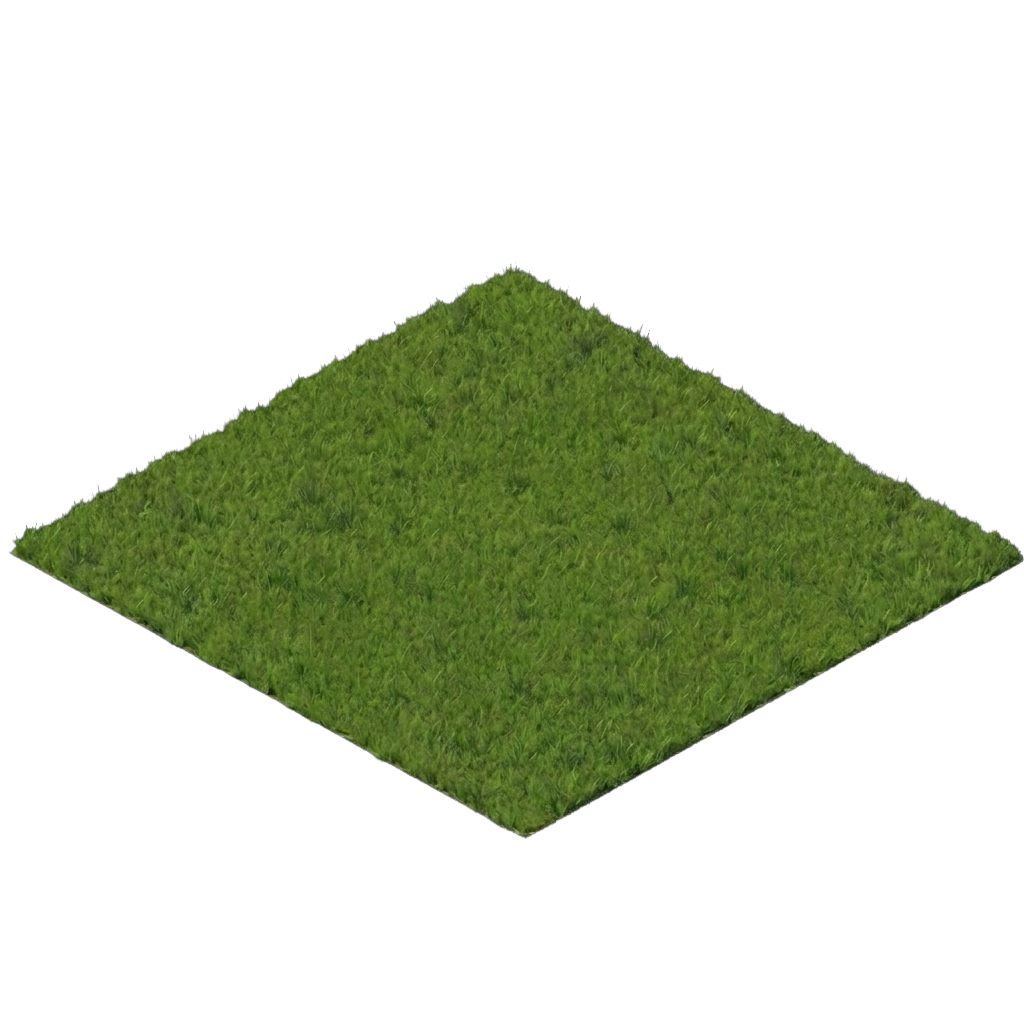
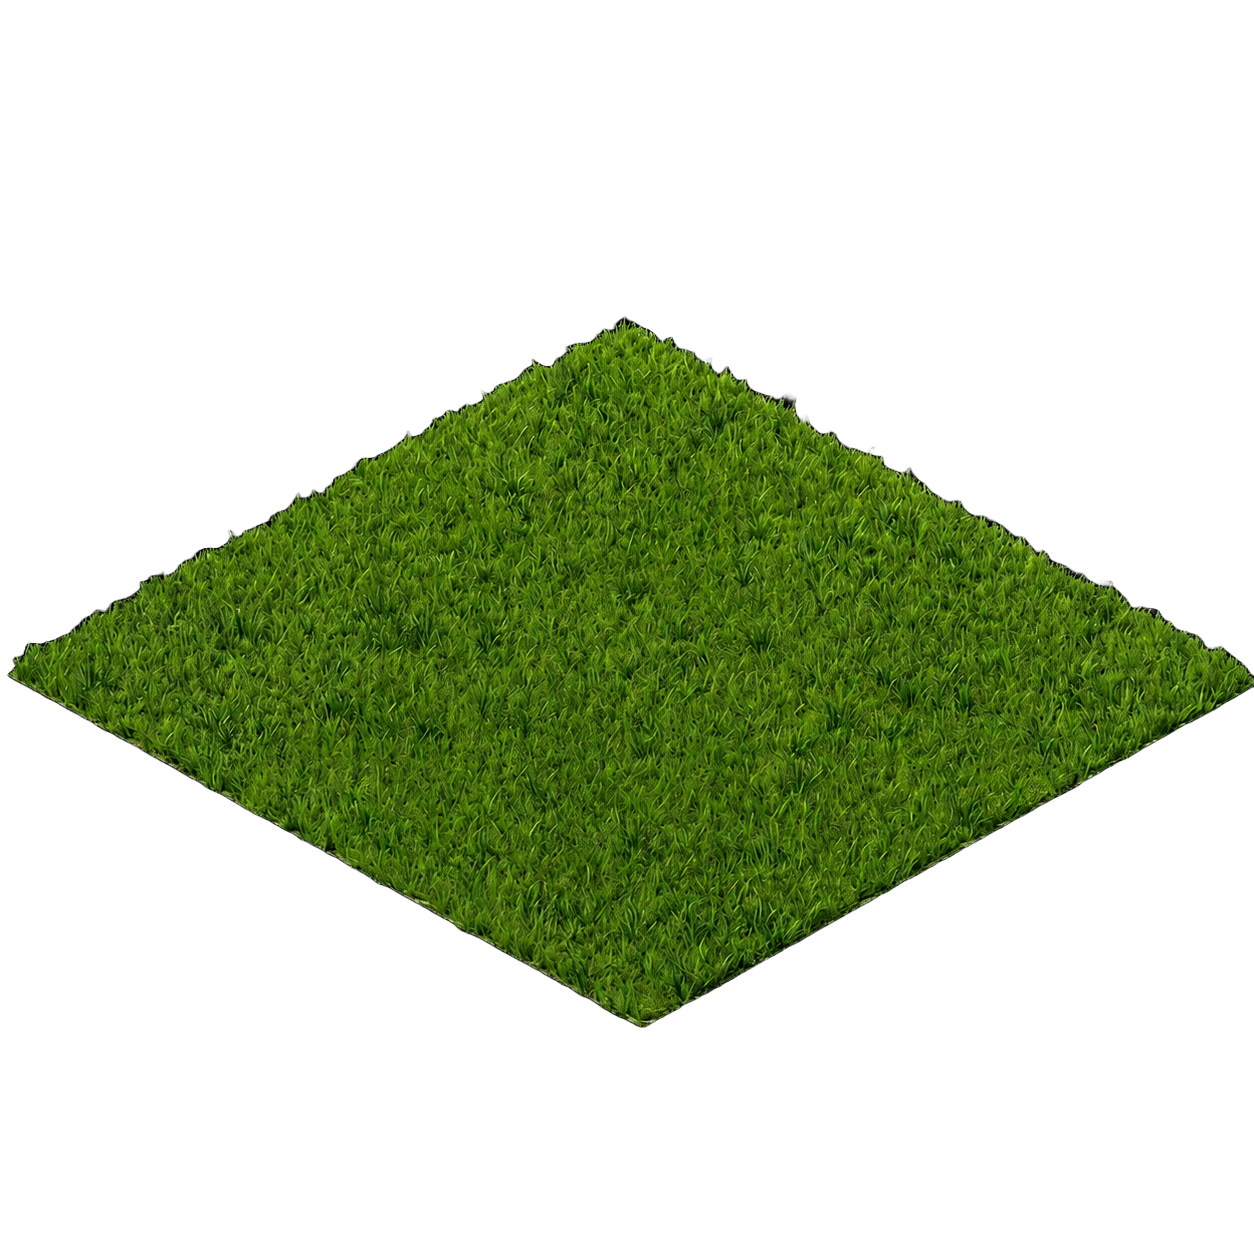
chore: optimized some images

Changed region(s): [[0.0, 0.25, 1.0, 0.8438]]

diff --git a/public/park.html b/public/park.html
@@ -15,7 +15,6 @@
     <link rel="stylesheet" href="./styles/buildings/hatchery.css">
     <link rel="stylesheet" href="./styles/buildings/entrance.css">
     <link rel="stylesheet" href="./styles/buildings/enclosure.css">
-    <link rel="stylesheet" href="./styles/buildings/structures.css">
     
     <!-- === Importação de funções === -->
     <script src="./constants.js"></script>
@@ -74,12 +73,12 @@
         </div>
         <nav class="sidebar-body">
             <button id="general-panel-toggler" class="sidebar-item">
-                <i class="ph-fill ph-cards"></i>
+                <i class="ph-fill ph-binoculars"></i>
                 <p>Visão Geral</p>
             </button>
-            <button id="buildings-panel-toggler" class="sidebar-item">
-                <i class="ph-fill ph-blueprint"></i>
-                <p>Construções</p>
+            <button id="editor-mode-toggler" class="sidebar-item">
+                <i class="ph-fill ph-hammer"></i>
+                <p>Modo Editor</p>
             </button>
             <button id="autosave-btn" class="sidebar-item">
                 <i class="ph-fill ph-floppy-disk"></i>
@@ -119,15 +118,6 @@
             </ul>
         </div>
     </div>
-    <!-- Painel Construções (abre com clique em "Construções") -->
-    <div class="overlay closed">
-        <div id="buildings-panel" class="panel">
-            <h3 class="panel-title">Construcoes Disponiveis</h3>
-            <ul class="buildings-list">
-                <!-- lista de construções disponíveis... -->
-            </ul>
-        </div>
-    </div>
     <!-- Painel Nome Parque (abre com clique na construção "Entrance") -->
     <div class="overlay closed">
         <div id="entrance-panel" class="panel">
@@ -143,9 +133,9 @@
     <div class="overlay closed">
         <div id="hatchery-panel" class="panel">
             <h3 class="panel-title">Laboratorio de Incubacao</h3>
-            <ul id="hatchery-slots">
-                <li id="hatch-slot-1" class="hatchery-slot"></li>
-            </ul>
+            <div id="hatchery-slots">
+                <!-- lista de slots para incubar... -->
+            </div>
             <ul id="hatchery-list">
                 <!-- lista de dinossauros disponíveis... -->
             </ul>
@@ -153,12 +143,10 @@
     </div>
 
     <!-- Tile Switcher (abre com clique em qualquer tile) -->
-    <div class="overlay closed">
-        <div id="tile-switcher">
-            <ul class="tile-list">
-                <!-- lista com demais tiles para trocar -->
-            </ul>
-        </div>
+    <div id="tile-switcher" class="closed">
+        <ul class="tile-list">
+            <!-- lista com demais tiles para trocar -->
+        </ul>
     </div>
 
     <!-- Painel Cercado (abre com clique em qualquer tile da categoria "Enclosure") -->
@@ -191,11 +179,7 @@
         const clickedElement = e.target;
         if(clickedElement.classList.contains("visitor-center")) { togglePanel("general-panel") };
         if(clickedElement.classList.contains("entrance")) { togglePanel("entrance-panel") };
-        if(clickedElement.classList.contains("hatchery")) { 
-            togglePanel("hatchery-panel");
-            loadHatcheryData();
-        };
-
+        if(clickedElement.classList.contains("hatchery")) { togglePanel("hatchery-panel")};
         if(clickedElement.classList.contains("enclosure")) { 
             togglePanel("enclosure-panel");
             loadEnclosureData(e.target.dataset.tileCol, e.target.dataset.tileRow, "enclosure-panel");
@@ -206,7 +190,7 @@
     document.addEventListener("DOMContentLoaded", () => {
         // === REDIRECIONAMENTO SE NÃO AUTENTICADO === //
         if(!getItem(JPWG_DATA)) {
-           window.location = "./login.html";
+        window.location = "./login.html";
         }
 
         // === ELEMENTOS E EVENTOS HTML === //
@@ -254,7 +238,7 @@
         // Togglers
         const sidebarToggler = getElementByIdAndAttachEvent("sidebar-toggler", 'click', () => togglePanel("sidebar", false));
         const generalPanelToggler = getElementByIdAndAttachEvent("general-panel-toggler", 'click', () => togglePanel("general-panel"));
-        const buildingsPanelToggler = getElementByIdAndAttachEvent("buildings-panel-toggler", 'click', () => togglePanel("buildings-panel"));
+        const editorModeToggler = getElementByIdAndAttachEvent("editor-mode-toggler", 'click', () => togglePanel("tile-switcher", false));
 
         // Sidebar
         const autosaveBtn = getElementByIdAndAttachEvent("autosave-btn", "click", () => {
@@ -293,6 +277,7 @@
         loadDevScreen({user, park, tiles, dinosaur});
         loadStatusBar(park.name, park.rating, park.dinoCoins);
         loadGrid(tiles, dinosaur);
+        loadHatcheryData();
 
         // 3. INICIA TIMERS
         const autosaveTimer = createTimer(() => triggerEvent("save"), AUTOSAVE_INTERVAL_MS);
@@ -450,7 +435,7 @@
                 </div>
                 <div class="enclosure-status-body">
                     <div class="empty-enclosure">
-                        <p>Não Há Dinossauros Neste Cercado</p>
+                        <p>Cercado Vazio</p>
                         <button onclick="openHatchery()">Ir para a Incubadora</button>  
                     </div>
                 </div>
@@ -496,7 +481,7 @@
                     </div>
                     <div class="enclosure-info">
                         <ul>
-                           <li>Era: <span>${species.temporalRange}</span></li>
+                        <li>Era: <span>${species.temporalRange}</span></li>
                             <li>Locomoção: <span>${species.locomotionType}</span></li>
                             <li>Dieta: <span>${species.diet}</span></li>
                             <li>Altura: <span>${formatDinoHeight(Number(species.heightInMeters))}</span></li>
@@ -591,28 +576,39 @@
         hatcherySlots.innerHTML = "";
         hatcheryList.innerHTML = "";
 
-        const data = JSON.parse(getItem("JPWG_SPECIES"));
-        if(!data) {}
+        const species = JSON.parse(getItem("JPWG_SPECIES"));
+        const {park} = JSON.parse(getItem(JPWG_DATA));
+        if(!species) {
+            // aviso: buscar por species novamente
+        }
 
-        data.forEach((species) => {
+        species.forEach((species) => {
             hatcheryList.innerHTML += `
                 <li class="hatchery-item" style="background-image: url('./assets/images/dinosaurs/${species.name}_icon.png');">
                     <p class="hatchery-title">${species.name}</p>
                     <div class="hatchery-item-info">
                         <p><span><i class="ph-fill ph-coins"></i> ${species.hatchCost}</span></p>
                         <p><span><i class="ph-fill ph-timer"></i> ${formatDinoHatchTime(species.hatchTimeInSeconds)}</span></p>
-                        <p><span><i class="ph-fill ph-scales"></i> ${formatDinoHatchSuccess(species.hatchSuccessRate)}</span></p>
+                        <p><span><i class="ph-fill ph-egg-crack"></i> ${formatDinoHatchSuccess(species.hatchSuccessRate)}</span></p>
                     </div>
                     <div class="hatchery-item-footer">
-                        <button><i class="ph ph-egg-crack"></i> Incubar</button>
+                        <button ${park.dinoCoins >= species.hatchCost ? "" : "disabled"} onclick="hatchDinosaur(${species.id})">Incubar</button>
                     </div>
                 </li>
             `;
         });
+
+        for (let i = 1; i <= 3; i++) {
+            hatcherySlots.innerHTML += `
+                <div id="hatchery-slot-${i}" class="hatchery-slot" data-slot-status="empty" data-slot-dinosaur="" data-time-left=""></div>
+            `;
+        }
+
+    }
+    function hatchDinosaur(idSpecies) {
 
     }
 
 </script>
 </body>
 </html>
-<script>

diff --git a/public/index.html b/public/index.html
@@ -49,7 +49,7 @@
                         <button class="cta-btn"><a href="#dinosaurs-section">Ver Espécies</a></button>
                     </div>
                 </div>
-                <img src="./assets/images/hero-banner.jpg" alt="Parque dos Dinossauros">
+                <img src="./assets/images/hero-banner.png" alt="Parque dos Dinossauros">
             </section>
 
             <!-- Sobre -->